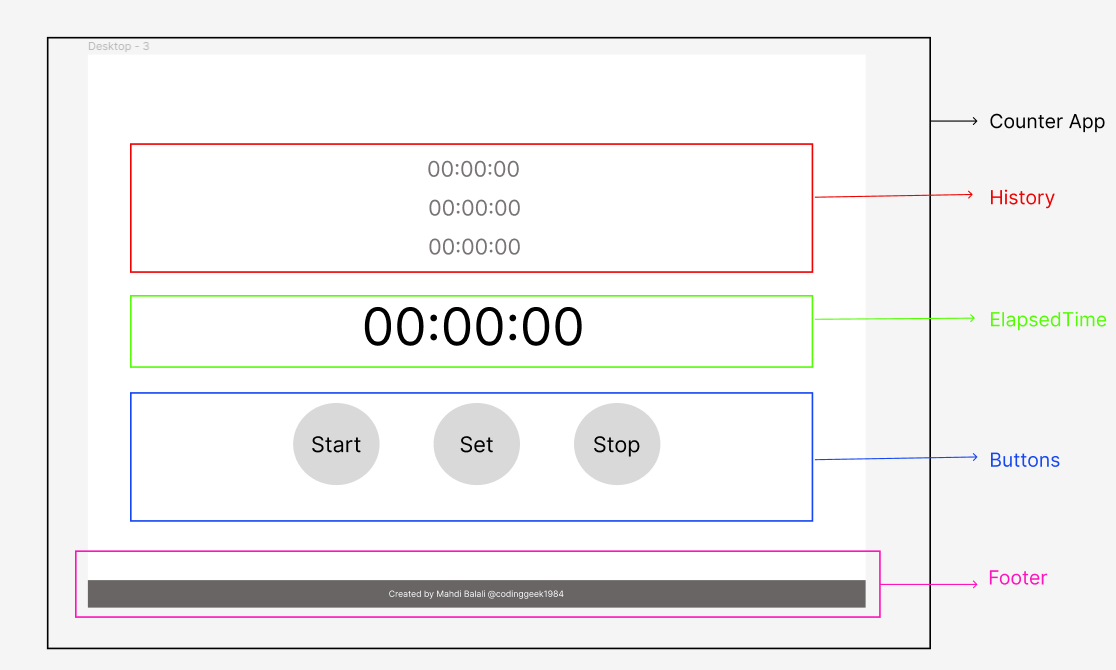
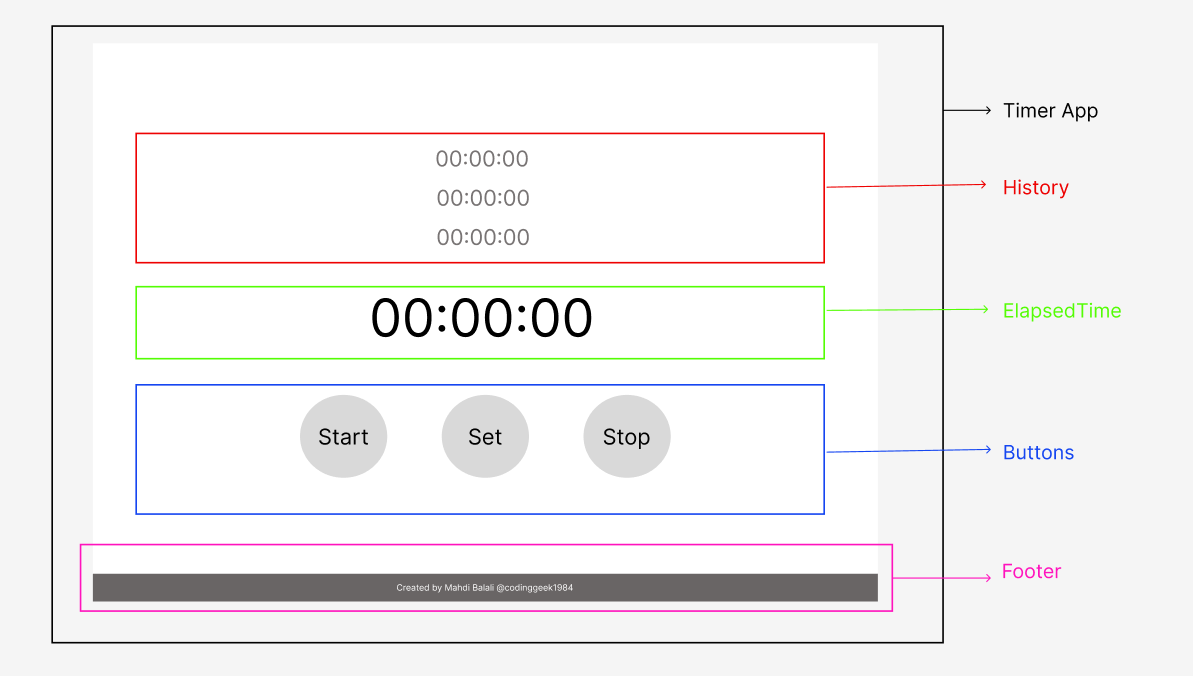
to save the latest true working version of code

diff --git a/src/App.js b/src/App.js
@@ -1,3 +1,4 @@
+import { useState, useEffect} from 'react';
 import ElapsedTime from './components/ElapsedTime';
 import History from './components/History';
 import Buttons from './components/Buttons';
@@ -5,14 +6,53 @@ import Footer from './components/Footer';
 
 
 function App() {
+  const [historyArr, setHistoryArr] = useState([0]);
+  const [appStatus, setAppStatus] = useState(false);    //True: Working, False: Stopped
+  const [timerTrigger, setTimerTrigger] = useState(false);
+  const [timerID,setTimerID] = useState(null);
+  
+  function updateElapsedTime() {    
+    let currentTime = historyArr[historyArr.length - 1] + 1;
+    let nextHistoryArr = [...historyArr];
+    nextHistoryArr[nextHistoryArr.length - 1] = currentTime;
+    setHistoryArr(nextHistoryArr);
+  }
+  useEffect( () => {
+    if (appStatus){
+      updateElapsedTime();
+    }
+  },[timerTrigger])
+
+  useEffect( () => {
+  },[historyArr])
+  function startTimer() {
+    let nextHistoryArr = [0];
+    setHistoryArr(nextHistoryArr);
+    let nextStatus = true;
+    setAppStatus(nextStatus);
+    let timerID0 = setInterval(() => {
+      setTimerTrigger((prevTimerTrigger) => !prevTimerTrigger);
+    },1000);
+    setTimerID(timerID0);
+
+  }
+  function stopTimer() {
+    setAppStatus((prevAppStatus) => !prevAppStatus);    
+    clearInterval(timerID);
+  }
+  function setTime() {
+    const currentTime = historyArr[historyArr.length - 1];
+    const nextHistoryArr = [...historyArr,currentTime];
+    setHistoryArr(nextHistoryArr);
+  }
   return (
-    <div className="counter-app" id="counter-app">
-      <History />
-      <ElapsedTime />
-      <Buttons />
+    <div className="timer-app" id="timer-app">
+      <History historyArr = {historyArr} />
+      <ElapsedTime historyArr = {historyArr} />
+      <Buttons appStatus = {appStatus} startTimer = {startTimer} stopTimer = {stopTimer} setTime = {setTime} />
       <Footer />
     </div>
-  );
+  );  
 }
 
 export default App;

diff --git a/src/index.css b/src/index.css
@@ -13,6 +13,14 @@ body {
   padding: 187px 0 227px 0;  
 }
 
+#history-section{
+  height: 193px;
+  overflow: auto;  
+  scrollbar-color: transparent transparent;
+}
+#history-section::-webkit-scrollbar{
+  background-color: transparent;
+}
 
 #history-section ul{
   list-style-type: none;  
@@ -22,13 +30,13 @@ body {
   align-items: center;
 }
 #history-section ul li{
-  font-size: 40px;
+  font-size: 30px;
   color:#787474;
   margin-top:23px;
 }
 
 #elapsed-time-section{
-  font-size: 96px;
+  font-size: 60px;
   margin: 65px 0;
   text-align: center;
 }
@@ -42,11 +50,19 @@ body {
 
 
 #buttons-section button{
-  font-size: 40px;
-  padding: 52px 48px;
+  font-size: 28px;
+  width: 120px;
+  height: 120px;
   border-radius: 50%;
+  cursor: pointer;
+  transition: border-color 1s;
+  transition: background-color 0.5s;
 }
-
+#buttons-section button:hover{
+  color:#fff;
+  border-color:#2525ff;
+  background-color: #2525ff;
+}
 
 footer{
   position: fixed;
@@ -63,4 +79,9 @@ footer{
 }
 footer a{
   color:#fff;
+  text-decoration: none;
+}
+
+footer a:hover{
+  text-decoration: underline;
 }

diff --git a/src/components/ElapsedTime.js b/src/components/ElapsedTime.js
@@ -1,16 +1,8 @@
 import React from "react"
+import formatElapsedTime from "../utility";
 
-export default function ElapsedTime() {
-    let elapsedTime = 3910; //seconds    
-    const formatElapsedTime = (totalSeconds) => {
-        const h = Math.floor(totalSeconds / 3600);
-        const m = Math.floor((totalSeconds - 3600 * h) / 60);
-        const s = totalSeconds - 3600 * h - 60 * m;
-        const hStr = h < 10 ? `0${h.toString()}` : h.toString();
-        const mStr = m < 10 ? `0${m.toString()}` : m.toString();
-        const sStr = s < 10 ? `0${s.toString()}` : s.toString();
-        return `${hStr}:${mStr}:${sStr}`;
-    }
+export default function ElapsedTime({historyArr}) {
+    let elapsedTime = historyArr[historyArr.length - 1]; //seconds    
     return (
         <section id="elapsed-time-section">
             <h1>{formatElapsedTime(elapsedTime)}</h1>

diff --git a/src/components/Buttons.js b/src/components/Buttons.js
@@ -1,12 +1,30 @@
 import React from "react"
 
 
-export default function Buttons() {
+export default function Buttons({appStatus, startTimer, stopTimer, setTime}) {
+    function onStart() {
+        if (appStatus) {
+            return;
+        }
+        startTimer();
+    }
+    function onStop() {
+        if (!appStatus) {
+            return;
+        }
+        stopTimer();
+    }
+    function onSet(){
+        if (!appStatus) {
+            return;
+        }
+        setTime();
+    }
     return (
         <section id="buttons-section">
-            <button>Start</button>
-            <button>Set</button>
-            <button>Stop</button>
+            <button onClick={onStart}>Start</button>
+            <button onClick={onSet}>Set</button>
+            <button onClick={onStop}>Stop</button>
         </section>
     )
 }

diff --git a/src/utility.js b/src/utility.js
@@ -1,0 +1,16 @@
+
+
+
+export default function formatElapsedTime(totalSeconds) {
+    if (totalSeconds !== ''){
+        const h = Math.floor(totalSeconds / 3600);
+        const m = Math.floor((totalSeconds - 3600 * h) / 60);
+        const s = totalSeconds - 3600 * h - 60 * m;
+        const hStr = h < 10 ? `0${h.toString()}` : h.toString();
+        const mStr = m < 10 ? `0${m.toString()}` : m.toString();
+        const sStr = s < 10 ? `0${s.toString()}` : s.toString();
+        return `${hStr}:${mStr}:${sStr}`;
+    } else {
+        return;
+    }
+}

diff --git a/src/components/History.js b/src/components/History.js
@@ -1,10 +1,12 @@
 import React from "react"
+import formatElapsedTime from "../utility"
 
-export default function History() {
-    const historyArr = ['00:00:00','01:00:00','02:00:00']
+export default function History({historyArr}) {
     const printHistory = (Arr0) => {
         const newList =  Arr0.map( (item,index) => {
-            return <li key = {index}>{item}</li>
+            if (index !== 0){
+                return <li key = {index}>{formatElapsedTime(item)}</li>
+            }
         })
         return newList
     }

diff --git a/Readme1.md b/Readme1.md
@@ -1,11 +1,11 @@
-# Counter
+# Timer/Stopwatch
 
 ## Introduction
 My goal by developing this program is to improve my skills and mastering in React. The idea is from the weblog article 
 "50+ Beginner and Intermediate level React Project Ideas" by R. Fulzele published at [Medium](https://medium.com/). You can find the paper [here](https://medium.com/@rohan.fulzele/50-beginner-and-intermediate-level-react-project-ideas-%EF%B8%8F-809b396faa39).
 The program description is very simple:
 
-> 2. Counter App: Build a counter application that increments or decrements a value when buttons are clicked.
+> 8. Timer/Stopwatch: Build a timer or stopwatch application with start, pause, and reset functionalities.
 
 I will keep it simple, as it is, to concentrate more on React implementation. I will also track the famous article published by React Official, [**Thinking in React**. ](https://react.dev/learn/thinking-in-react). Actually, the project plan is designed just the same as the steps provided in this paper.
 
@@ -24,12 +24,13 @@ I will keep it simple, as it is, to concentrate more on React implementation. I 
 
 
 ## Project Wire-frame:
-I have create a very simple wireframe for my counter app. you can see it designed for desktop and small android cell phone in the following images:
+I have create a very simple wireframe for my timer app. you can see it designed for desktop and small android cell phone in the following images:
 
-![Desktopn-wireframe-counter-1](readme-Files/Screenshot-desktop-1.png)
-![Desktopn-wireframe-counter-2](readme-Files/Screenshot-desktop-2.png)
-![Small-android-wireframe-counter](readme-Files/Screenshot-small-android.png)
+![Desktopn-wireframe-timer-1](readme-Files/Screenshot-desktop-1.png)
+![Desktopn-wireframe-timer-2](readme-Files/Screenshot-desktop-2.png)
+![Small-android-wireframe-timer](readme-Files/Screenshot-small-android.png)
 
+Figma files could be reached [here](https://www.figma.com/file/QgB6OT2J9yRcuBmqvFKQQo/Untitled?type=design&node-id=41-94&mode=design&t=lbMpTMJD4dkXmyVF-0).
 
 ## Break the UI into a component hierarchy
 I just breaked down the UI which I just designed in Figma, to components, based on their rolte in the program. The schematic is provided in the following image:
@@ -37,7 +38,7 @@ I just breaked down the UI which I just designed in Figma, to components, based 
 ![UI-Hierarchy](readme-Files/UI-Hierarchy.png)
 
 The five components designed, are as follows:
-1. Counter App, contains the entire App.
+1. Timer App, contains the entire App.
 2. History, shows the set times
 3. Elapsed time, is the main section of the UI, showing the elapsed time since the user clicked start.
 4. Buttons, includes the buttons of the app, and will manage their functionality.
@@ -48,7 +49,62 @@ Now, according to the [Thinking in React](https://react.dev/learn/thinking-in-re
 In this section, I will first create the components in the layout, without any style. Then I will update the CSS file and make them look the same as my wire-frame.
 
 
+## Find the minimal but complete representation of UI state
+For this section I will go through the notes in the [ref. paper](https://react.dev/learn/thinking-in-react):
 
+> Think of state as the minimal set of changing data that your app needs to remember
+
+> Now think of all of the pieces of data in this application:
+
+My app needs to remember these data and status:
+1. the history of set times
+2. The elapsed time
+3. The app status, wheter it is working, or stoped.
+4. timerID which is the 
+
+> Which of these are state? Identify the ones that are not:
+>> Does it remain unchanged over time? If so, it isn’t state.
+>> Is it passed in from a parent via props? If so, it isn’t state.
+>> Can you compute it based on existing state or props in your component? If so, it definitely isn’t state!
+
+The answer of these questions for my parmeters:
+1. The history of set times will change over time. it is not passed in as props. And we can not compute it based on the existing state or props in other components. So, this is a **State**. We will call it **historyArr**
+2. Altough the elapsed time, is eligible for all conditions of being state, but it could be assmed as the last item of history. so I will not define a seperate state variable for this parameter.
+3. The app status will change over time, based on user actions. This status is not passes via a props, and can not be computed from any other status. so it is also a **State**. We will call it **appStatus**.
+
+
+
+
+## Identify where your state should live
+Our ref. paper suggest three steps for deciding about where the state should live:
+>1. Identify every component that renders something based on that state.
+>2. Find their closest common parent component—a component above them all in the hierarchy.
+>3. Decide where the state should live:<br>
+>&nbsp;3.1. Often, you can put the state directly into their common parent.<br>
+>&nbsp;3.2. You can also put the state into some component above their common parent.<br>
+>&nbsp;3.3. If you can’t find a component where it makes sense to own the state, create a new component solely for holding the state and add it somewhere in the hierarchy above the common parent component.
+
+
+Now, for our case it will be:<br>
+A. **historyArr**
+1. The components that render something based on the state are:
+   1. History
+   2. ElapsedTime
+2. Their closest common parent is  *TimerApp*.
+3. I will put this state in the common parent, *TimerApp*.
+
+B.**appStatus**
+1. The components that render something based on the state are:
+   1. Buttons
+   2. Footer (I have an idea: The footer color could be different when the app is working.)
+2. Their closest common parent is  *TimerApp*.
+3. I will put this state in the common parent, *TimerApp*.
+
+
+
+
+## Add inverse data flow
+In this section we will handle the user input back to the app states and parameters. For this reason the required functions to handle timer start and stop will be added. 
 
 
 ## Challenges 
@@ -56,6 +112,25 @@ In this section, I will first create the components in the layout, without any s
 1. After implementing the initially designed dimensions used in the wire-frame, the app looks silly. you can see the screenshot below. The dimensions are too large.
    
    ![Initial-Design-Implemented-Looks-Silly](readme-Files/initial-design-implemented-silly.png)
+
+
+2. A challenge arise when the items of history exceed 3. then the format will be disturbed. so I set overflow to auto. but the scrollbar appears beside the history section, and looks bad. Then I add few CSS lines to hide the scroll bar.
+   Hiding scrollbar is not included in standard HTML-CSS commands, but it could be handled using webkit specs for Chrome and Safari and other commands for Firefox and IE.
+
+
+3. A very complicated challenge arise for dealing with setInterval and the React component reactions.
+   To resolve this challenge I add few useStates and also useEffect.
+   The useStates added are:
+   <ul>
+      <li>timerTrigger</li>
+      <li>timerID</li>
+   </ul>
+   I have also added a useEffect. THe useEffect deppendency is timerTrigger. 
+   I passed a function to setInterval that flips the value of timerTrigger every 1 second (1000ms). Then as the useEffect is depending on timerTrigger, it will run the function updateElapsedTime() whenever the timerTrigger is modified. So, every second, the function updateElapsedTime will be executed.
+
+   The next useState is timerID. to be consistent with React methodology, I add a useState for timerID, which is the output of setInterval function. Then, the program will remember this timerID, and I would be able to clear it inside stopTimer function.
+   
+4. The next challenge is that the last item of history, which is actually the current timer variable, is shown in history bar. So I had to hide it.
 
 ## Getting Started with Create React App
 
